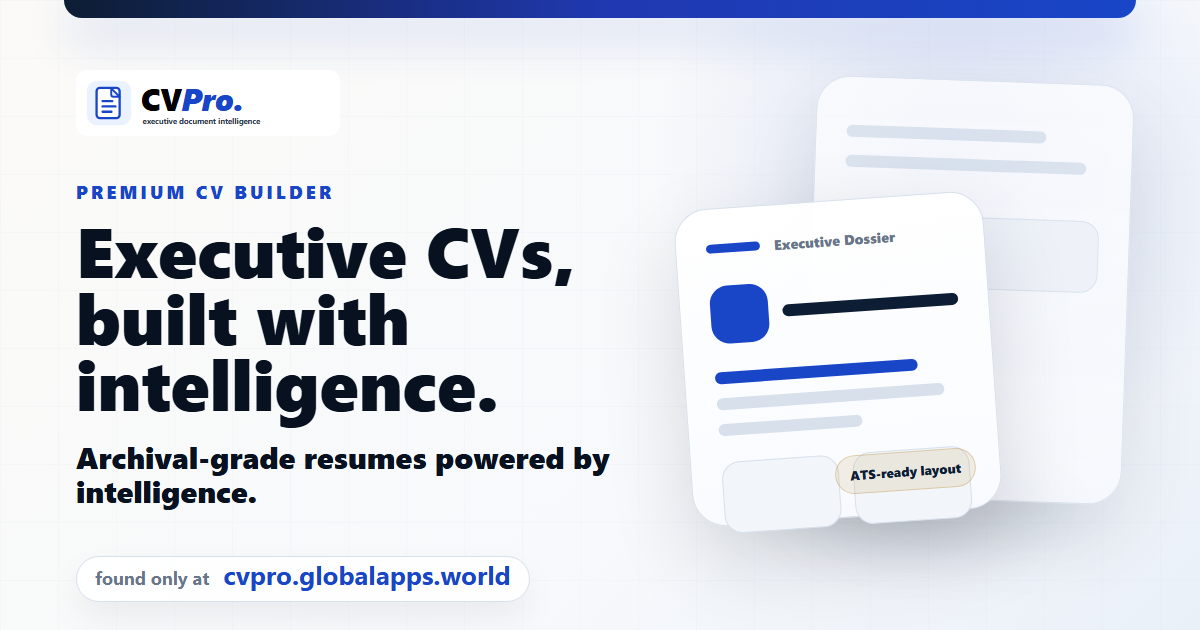
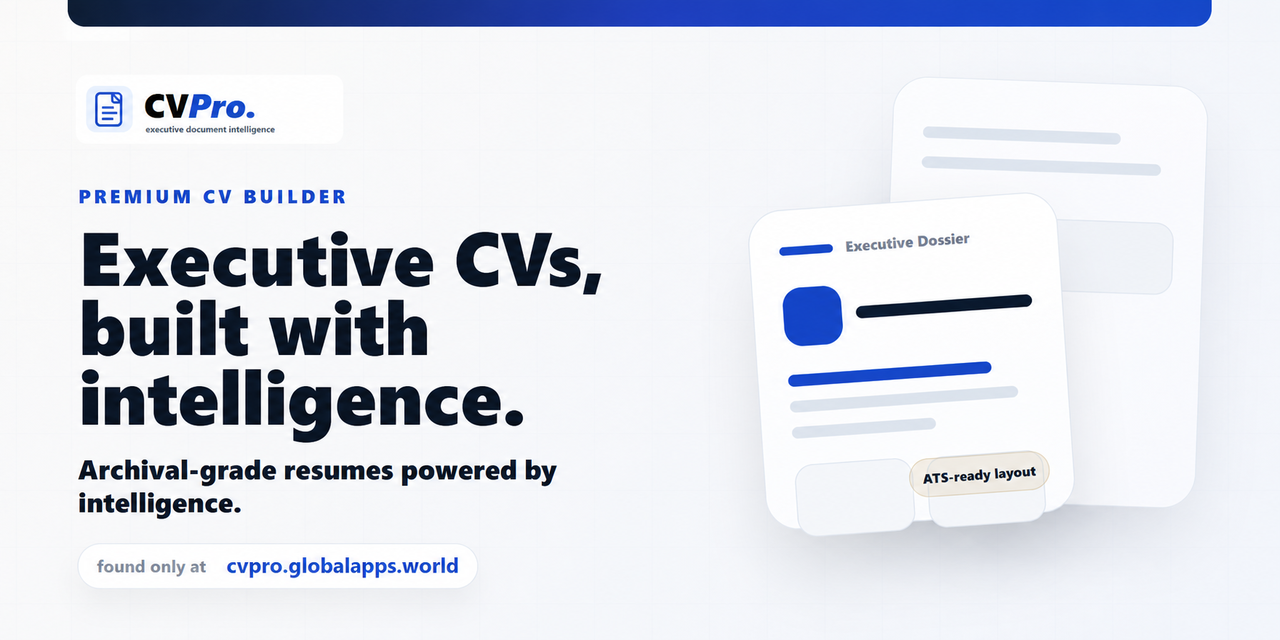
docs: complete showcase portfolio contract (#3)

diff --git a/CONTRIBUTING.md b/CONTRIBUTING.md
@@ -1,0 +1,7 @@
+# Contributing
+
+CV Pro is a commercial product and this repository is a source-free public showcase. Product source contributions cannot be accepted here.
+
+Constructive product feedback, accessibility observations, and reproducible issues with this showcase are welcome through GitHub Issues or Discussions. Please describe the observed behavior, the browser or device used, and a clear expected outcome. Do not include CVs, customer information, credentials, payment details, or other private data.
+
+Security reports must follow [SECURITY.md](SECURITY.md) rather than a public issue.

diff --git a/RIGHTS.md b/RIGHTS.md
@@ -1,0 +1,5 @@
+# Rights and reuse
+
+This repository documents a commercial product without publishing its source code. CV Pro product names, screenshots, visual assets, documentation, and underlying application remain proprietary unless a file explicitly states otherwise.
+
+See [NOTICE.md](NOTICE.md) for the authoritative showcase notice. No license to copy, redistribute, train on, or create derivative commercial materials is granted by public visibility.

diff --git a/README.md b/README.md
@@ -4,6 +4,7 @@
 
 [![Live product](https://img.shields.io/badge/Live_Product-cvpro.globalapps.world-1748d4?style=for-the-badge&logo=googlechrome&logoColor=white)](https://cvpro.globalapps.world/)
 [![Commercial source](https://img.shields.io/badge/Source-Private-111827?style=for-the-badge&logo=github)](#commercial-source-notice)
+[![Portfolio integrity](https://github.com/NilhanHub/CV-Pro-Showcase/actions/workflows/portfolio-integrity.yml/badge.svg)](https://github.com/NilhanHub/CV-Pro-Showcase/actions/workflows/portfolio-integrity.yml)
 
 ![CV Pro product gallery](assets/cv-pro-social-gallery.png)
 